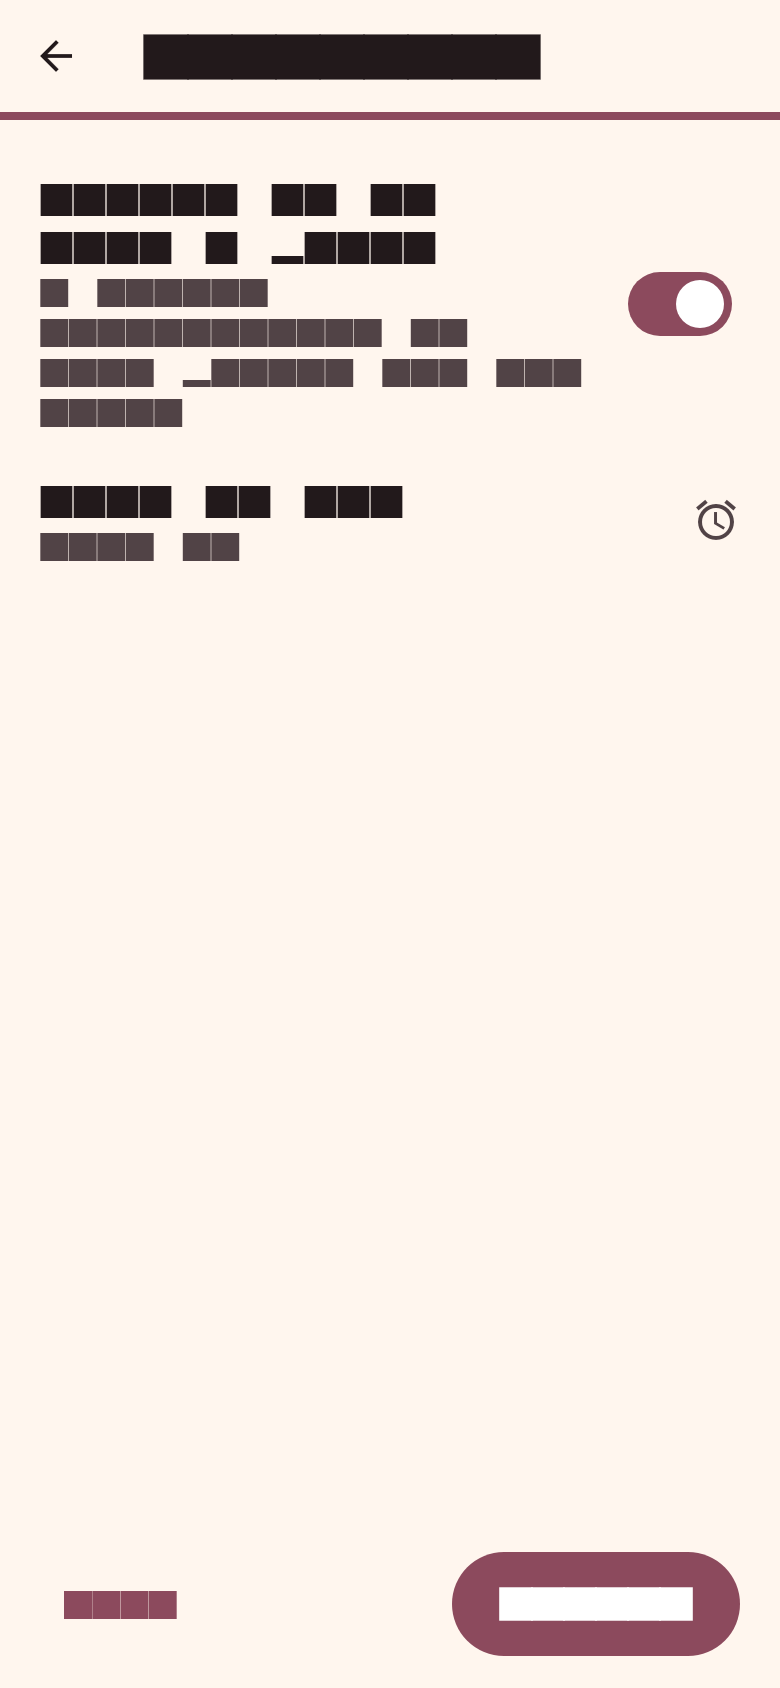
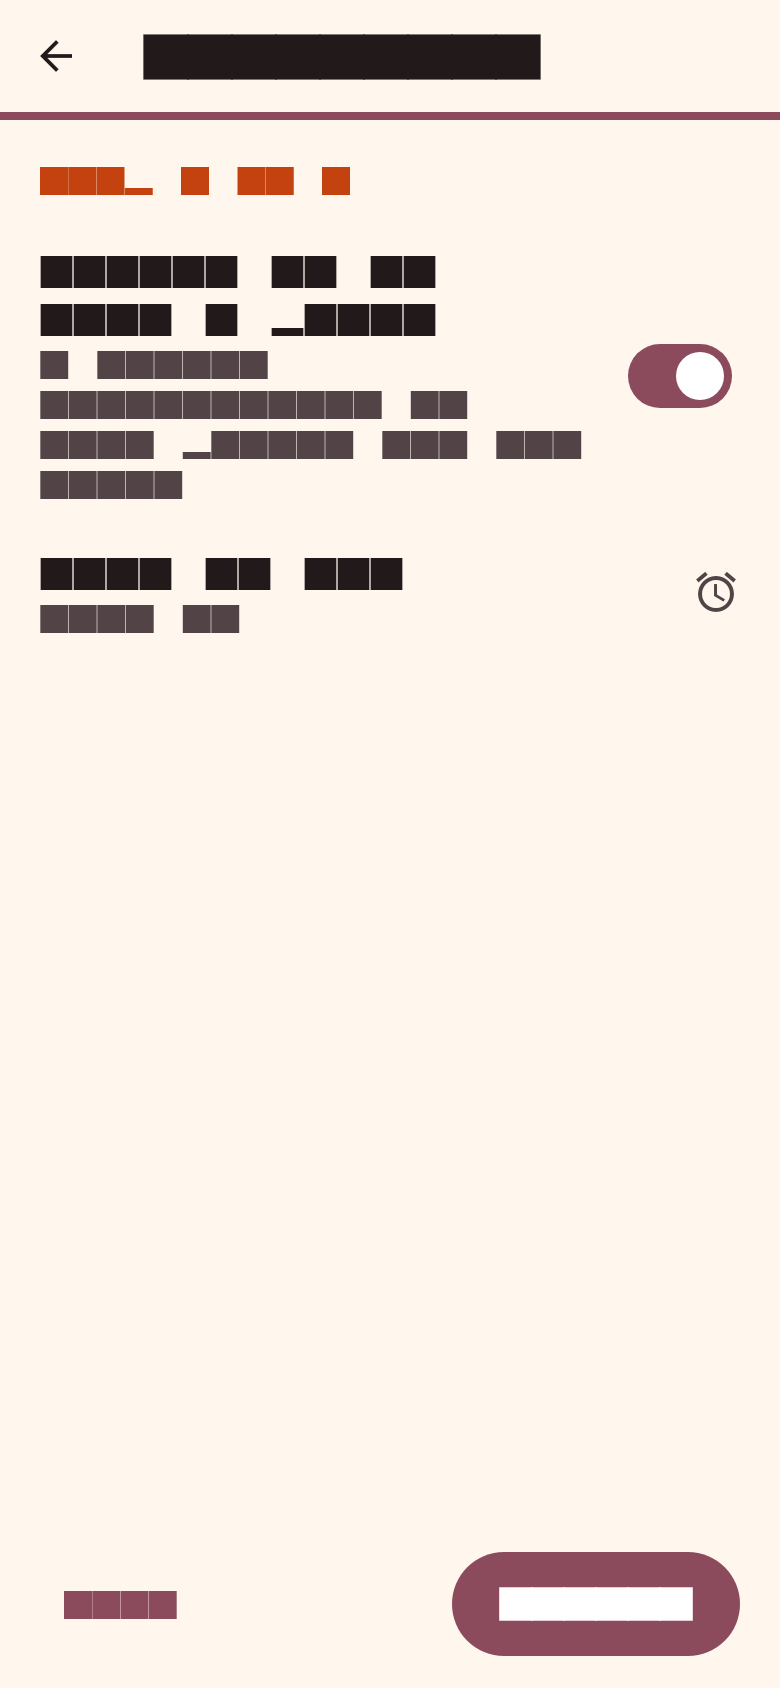
First-time flow: starting schedule, step counter, land on the baby page after setup
Claude-Session: https://claude.ai/code/session_01FsfHXce5joCGpBzySKJez2

Changed region(s): [[0.0308, 0.0924, 0.7692, 0.4005], [0.8, 0.154, 0.9538, 0.2464], [0.8923, 0.2773, 0.9538, 0.3697]]

diff --git a/lib/features/onboarding/onboarding_page.dart b/lib/features/onboarding/onboarding_page.dart
@@ -8,10 +8,12 @@ import 'package:flutter_riverpod/flutter_riverpod.dart';
 import '../../data/providers.dart';
 import '../../domain/baby.dart';
 import '../../domain/schedule.dart';
+import '../../notifications/calendar_status.dart';
 import '../../notifications/reminder_service.dart';
 import '../../ui/theme.dart';
 import '../common/baby_details_form.dart';
 import '../common/drive_consent.dart';
+import '../baby/baby_page.dart';
 import '../common/schedule_editor.dart';
 
 export '../common/baby_details_form.dart' show birthDateFirst, birthDateLast;
@@ -35,8 +37,11 @@ class _OnboardingPageState extends ConsumerState<OnboardingPage> {
   bool _connecting = false;
   bool _saving = false;
   var _reminder = const ReminderSettings();
+  // A gentle suggestion to start with: every week, then every month from six
+  // months. Every part can be changed in the next steps.
   final List<PhaseDraft> _phases = [
     PhaseDraft(0, TimeUnit.day, 1, TimeUnit.week),
+    PhaseDraft(6, TimeUnit.month, 1, TimeUnit.month),
   ];
   final _finish = FinishDraft();
   String? _error;
@@ -97,11 +102,12 @@ class _OnboardingPageState extends ConsumerState<OnboardingPage> {
         );
       }
     }
+    final id = DateTime.now().microsecondsSinceEpoch.toString();
     await ref
         .read(babiesProvider.notifier)
         .add(
           Baby(
-            id: DateTime.now().microsecondsSinceEpoch.toString(),
+            id: id,
             name: _name.text.trim(),
             gender: _gender,
             birth: _birth,
@@ -112,7 +118,13 @@ class _OnboardingPageState extends ConsumerState<OnboardingPage> {
             storage: _storage!,
           ),
         );
-    if (mounted) Navigator.of(context).pop();
+    if (!mounted) return;
+    // Straight to the baby's page: the next steps (reminders in Calendar, the
+    // first photo) are right there, so nobody has to find the new baby first.
+    final nav = Navigator.of(context);
+    nav.pushReplacement(
+      MaterialPageRoute(builder: (_) => BabyPage(babyId: id)),
+    );
   }
 
   Future<void> _chooseDrive() async {
@@ -163,15 +175,29 @@ class _OnboardingPageState extends ConsumerState<OnboardingPage> {
                   child: ListView(
                     padding: EdgeInsets.all(context.isWide ? 32 : 20),
                     children: [
-                      if (context.isWide)
-                        Padding(
-                          padding: const EdgeInsets.only(bottom: 20),
-                          child: Text(
-                            titles[_step],
-                            style: Theme.of(context).textTheme.headlineSmall
-                                ?.copyWith(fontWeight: FontWeight.w700),
-                          ),
+                      Padding(
+                        padding: const EdgeInsets.only(bottom: 16),
+                        child: Column(
+                          crossAxisAlignment: CrossAxisAlignment.start,
+                          children: [
+                            Text(
+                              'Step ${_step + 1} of 4',
+                              style: Theme.of(context).textTheme.labelLarge
+                                  ?.copyWith(
+                                    color: Theme.of(context)
+                                        .colorScheme
+                                        .primary,
+                                  ),
+                            ),
+                            if (context.isWide)
+                              Text(
+                                titles[_step],
+                                style: Theme.of(context).textTheme.headlineSmall
+                                    ?.copyWith(fontWeight: FontWeight.w700),
+                              ),
+                          ],
                         ),
+                      ),
                       [
                         _aboutStep,
                         _storageStep,
@@ -320,8 +346,21 @@ class _OnboardingPageState extends ConsumerState<OnboardingPage> {
     onChanged: () => setState(() => _error = null),
   );
 
-  Widget _reminderStep() => ReminderEditor(
-    value: _reminder,
-    onChanged: (r) => setState(() => _reminder = r),
+  Widget _reminderStep() => Column(
+    crossAxisAlignment: CrossAxisAlignment.start,
+    children: [
+      ReminderEditor(
+        value: _reminder,
+        onChanged: (r) => setState(() => _reminder = r),
+      ),
+      if (useGoogleCalendar && _reminder.enabled)
+        const Padding(
+          padding: EdgeInsets.only(top: 8),
+          child: Text(
+            'Next, on your baby\'s page, one tap puts the reminders into your '
+            'Google Calendar. Everything here can be changed later in Settings.',
+          ),
+        ),
+    ],
   );
 }

diff --git a/test/app_flow_test.dart b/test/app_flow_test.dart
@@ -95,6 +95,13 @@ void main() {
         () => Future.delayed(const Duration(milliseconds: 500)),
       );
       await tester.pumpAndSettle();
+      // lands on the new baby's page: the next steps are right there
+      expect(find.text('Take photo'), findsOneWidget);
+      expect(find.text('Luna'), findsWidgets);
+      expect(find.text('Saved in Google Drive'), findsOneWidget);
+      // and the baby is on the home list when going back
+      await tester.pageBack();
+      await tester.pumpAndSettle();
       expect(find.text('Luna'), findsOneWidget);
       expect(find.text('Not saved to Drive yet'), findsNothing);
     },

diff --git a/README.md b/README.md
@@ -73,6 +73,7 @@ While the consent screen is in "Testing", add your testers' Google accounts as t
 
 ## Changelog
 
+- 2026-10-16: First-time flow: a gentle starting schedule (weekly, then monthly from 6 months) is pre-filled, each onboarding step says "Step n of 4", and after Finish you land on your baby's page where the next steps (Drive, Calendar reminders, first photo) are waiting
 - 2026-10-16: Baby page: new "Backup and reminders" card with one short line each for Google Drive and Reminders that open in place (replaces the big Drive box); a step that is not done yet (connect Drive, reconnect, add reminders to Google Calendar) shows open with its button and a "One step left" note; reminders on/off and time can be changed right there; a gear next to the three dots opens Settings
 - 2026-10-16: Fixed Google's sign-in window flashing open on its own after login: only a tap you make can open it now; background uploads that need a new sign-in show a "Reconnect" button instead
 - 2026-10-16: Drive folders now say "do not edit or delete" in their names (`BabyPhotobook (app folder - do not edit or delete)`, `_App data (do not delete)`) and in their Drive description; folders made earlier are renamed in place on first use (same folder, nothing moved); the app also explains it where the folder is shown
